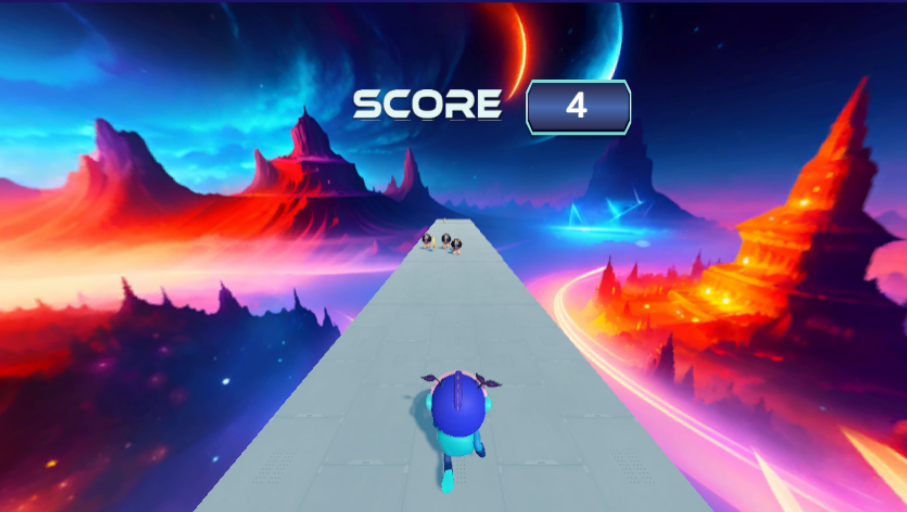
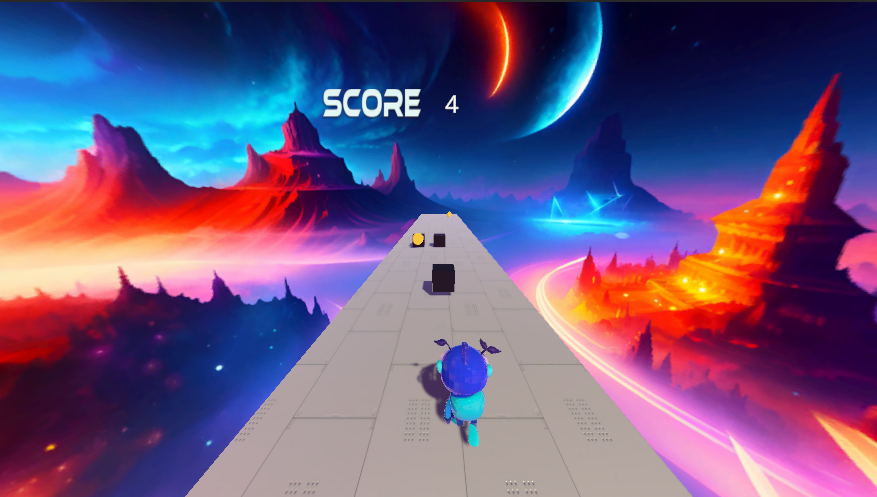
Act6ualizaciones de imagenes y contenido en 01 tour y 02 runner

diff --git a/docs/02-runner.md b/docs/02-runner.md
@@ -1,8 +1,10 @@
 # 2. Ejemplo1: Juego _Runner_
 
 !!! info "Objetivo de esta sección"
-    Entender cómo funciona el Runner: el jugador se mueve en X y **el mundo viene hacia él**.  
+    Entender cómo funciona el Runner: el jugador se mueve en el eje X y **el mundo viene hacia él**.  
     Explorarás los scripts, harás cambios en el **Inspector** y luego en el **código**.
+
+![Ejemplo Runner](img/ejemploRunner.png)
 
 !!! tip "🙋♀ Ayuda"
     🙋♀ No olvides preguntarle a los mentores de Campfire si necesitas ayuda.
@@ -27,13 +29,14 @@ El truco es: **premios y obstáculos se mueven hacia el jugador**.
     1. Abre la escena `Assets/Scenes/EscenasEjemplo/EjemploRunner.unity` (doble clic).
     2. En el panel **Hierarchy** (izquierda), localiza el objeto llamado **`Jugador`**.
     3. Haz clic en él para **seleccionarlo**.
-    4. Mira el panel **Inspector** (derecha) y anota qué componentes tiene.
+    4. Mira el panel **Inspector** (derecha) y analiza qué componentes tiene. <br>
+    Si, los viste en el paso anterior, pero ahora vamos a entender como los usamos para programar el juego.
 
-!!! note "¿Qué deberías ver en el Inspector?"
+!!! note "Repasemos ... ¿Qué deberías ver en el Inspector?"
     - **Transform** – posición, rotación, escala.
     - **Rigidbody** – física (gravedad, masa).
     - **Capsule Collider** – forma para detectar colisiones.
-    - **Player Controller (Script)** – el script que controla todo.
+    - **Player Controller (Script)** – el script que controla todo, este lo programa cada desarrollador, nosotros hicimos un ejemplo de como agregar un componente script que, en este caso, **hace que el jugador se mueva y ... algunas cosas más**.
     - **Animator** – controla las animaciones de correr/saltar.
 
 ---
@@ -55,7 +58,7 @@ Este script es el cerebro del jugador. Tiene tres partes importantes:
 
     !!! abstract "Mini teoría: ¿Qué es Start()?"
         `Start()` se ejecuta **una sola vez** cuando comienza el juego (cuando presionas Play).  
-        Se usa para preparar variables, poner valores iniciales, etc.
+        En palabras muy simples, lo usamos opara decirle al juego que valores o condiciones se tendrán al iniciar el juego... ej: preparar variables o poner valores iniciales.
 
 === "Update() – el bucle del juego"
 
@@ -73,20 +76,21 @@ Este script es el cerebro del jugador. Tiene tres partes importantes:
         `Update()` se ejecuta **una vez por frame** (60 veces por segundo aprox.).  
         Todo lo que quieras que ocurra continuamente va aquí: movimiento, lectura de teclas, etc.
 
-=== "Puntos y colisiones"
+=== "Detección de eventos (ej: score)"
 
     ```csharp
     float penalizacion = 5;   // puntos que se restan al tocar un obstáculo
     float aumento = 4;        // puntos que se suman al recoger un premio
 
+    //Esta fruncion permite detectar que algo "choca" (o "colisiona") con el objeto que tiene el script, en este caso el jugador
     private void OnTriggerEnter(Collider other)
     {
-        if (other.name.Contains("Obstaculo"))
+        if (other.name.Contains("Obstaculo")) //Si choca con un obstáculo...
         {
             score -= penalizacion;        // resta puntos
             Destroy(other.gameObject);    // elimina el obstáculo
         }
-        else if (other.name.Contains("Premio"))
+        else if (other.name.Contains("Premio")) // Si choca con un premio...
         {
             score += aumento;             // suma puntos
             Destroy(other.gameObject);    // elimina el premio
@@ -162,33 +166,47 @@ Este script es el cerebro del jugador. Tiene tres partes importantes:
 ```csharp
 public class GeneradorPremios : MonoBehaviour
 {
-    public GameObject cuboPrefab;           // el prefab del premio
+    public GameObject cuboPrefab;           // el objeto de juego del premio
     public Transform[] otrasPosiciones;     // posiciones donde puede aparecer
 
     private void Start()
     {
         // Llama a "GenerarPremios" cada 3 segundos (empieza inmediatamente)
         InvokeRepeating("GenerarPremios", 0f, 3f);
-        //                                ↑       ↑
-        //                          espera inicial  intervalo
+        //                                ↑    ↑
+        //                     espera inicial  intervalo
     }
 
     public void GenerarPremios()
     {
+        // se genera un npumero aleatorio entre 0 y el tamaño del arreglo de posiciones (en este caso: 3) 
         int randomIndex = Random.Range(0, otrasPosiciones.Length);
+        //La función Instantiate de unity permite "generar replicas" de un GameObject (estos 'replicables' son de color azul y los llamamos Prefabs, si quieres profundizar por qué consulta con un mentor)
         Instantiate(cuboPrefab, otrasPosiciones[randomIndex].position, Quaternion.identity);
     }
 }
 ```
+!!! example "Actividad — Nombre de la _variable_ que representa al premio"
+    1. ¿Notaste que el objeto de juego del premio está representado por una _variable_ llamada cuboPrefab? Eso es extraño, porque el premio es una moneda. Cuando creas _variables_ estas pueden llamarse como tu quieras, así que para mejorar el código te pedimos que cambies el nombre de esa _variable_ de "cuboPrefab" a "premio".
+    2. Guarda los cambios del script (`Ctrl+S`)
+    3. Nota que esto no cambia el comportamiento del juego, pero mejora el entendimiento del script.<br>
+    Nota: si no conoces el conceptio de _variable_, preguntale a los mentores, ellos te explicarán qué es, para qué sirve y cómo se usa.
+---
 
 !!! example "Actividad — Inspector"
     1. En **Hierarchy**, haz clic en el objeto `GeneradorPremios`.
     2. En **Inspector** verás el script con dos campos:
-        - **Cubo Prefab** – el prefab del premio asignado.
-        - **Otras Posiciones** – array de posiciones donde puede aparecer.
-    3. Presiona **Play** y observa cómo aparecen premios cada ~3 segundos.
+        - **Premio** – el objeto de juego del premio asignado ("Premio" debe ser el nombre si lo cambiaste en el paso anterior, de lo contrario dirá "Cubo Prefab"). 
+        - **Otras Posiciones** – Un conjunto de elementos (creado como un "arreglo" o _array_), en este caso, para guardar las posiciones donde puede aparecer el premio.
+    3. Expande el arreglo (⯈ Otras posiciones) y encuentra el objeto asociado al "Element 0" donde se generan los premios. Intenta acceder al objeto de juego de esa "posición".
+    4. Presiona **Play**, observa cómo aparecen premios cada ~3 segundos y qué ocurre con los premios generados en la posición que moviste.
 
 ---
+Así expandes el arreglo de ⯈ Otras posiciones
+![Desplegar arreglo de posiciones](img/listaDesplegable.png)
+Así puedes mover la posición
+![Mover la posicion generadora izquierda](img/MoverPosicionGeneradorIzq.png)
+
 
 ## 2.6 Obstáculos: aparecen al cruzar límites (triggers)
 
@@ -235,13 +253,15 @@ public class GenerarCubos : MonoBehaviour
 ```csharp
 public class MovimientoObjeto : MonoBehaviour
 {
-    public Rigidbody rb;
+    public Rigidbody rb; //se accede el componente de física (rigidbody)
     public float rapidez = 8f;   // ← velocidad a la que se mueve hacia el jugador
 
     void FixedUpdate()
     {
-        // Mueve el objeto en Z negativo (hacia el jugador)
+        // Mueve el objeto en el eje Z negativo (hacia el jugador)
         Vector3 velocidad = new Vector3(0, 0, -rapidez);
+
+        // Se accede a la velocidad y se actualiza con el vector modificado
         rb.velocity = velocidad;
     }
 
@@ -250,21 +270,29 @@ public class MovimientoObjeto : MonoBehaviour
         // Si llega al objeto "Destructor", se elimina solo
         if (other.name == "Destructor")
         {
+            //Esta función destruye un GameObject
             Destroy(gameObject);
         }
     }
 }
 ```
+!!! example "Actividad — Inspector"
+    1. Quita el signo "-" en el eje Z del vector de velocidad:   (0, 0, rapidez)
+    2. Guarda los cambios del script (`Ctrl+S`)
+    3. Ejecuta el juego y observa que ocurre con el movimiento de los objetos tras hacer ese cambio.
+        
+---
+
 
 !!! abstract "Mini teoría: FixedUpdate()"
     `FixedUpdate()` es como `Update()` pero para **física**.  
-    Se ejecuta a intervalos fijos (50 veces/segundo) para que el movimiento sea suave y preciso.
+    Se ejecuta a intervalos fijos (ej: 50 veces/segundo) para que el movimiento sea suave y preciso.
 
 !!! example "Actividad — Inspector"
     1. En el panel **Project**, busca la carpeta `Assets/Prefabs/` (o similar).
-    2. Selecciona el prefab `Premio` o `Obstaculo`.
+    2. Selecciona el prefab `Premio` u `Obstaculo`.
     3. En **Inspector** verás el script `MovimientoObjeto` con el campo **Rapidez**.
-    4. Anota el valor actual (debería ser `8`).
+    4. Observa el valor actual (debería ser `8`).
 
 ---
 

diff --git a/docs/01-tour-unity.md b/docs/01-tour-unity.md
@@ -39,7 +39,7 @@
 - Siempre tiene al menos un componente: **Transform**.
 
 !!! example "Actividad"
-    Un objeto de juego es, por ejemplo, cualquier objeto 3d, como un cubo, una esfera, un cilindro, un plano o una cápsula. En Unity estos son la base para contruir cualquier entorno de un juego.<br><br>
+    Un objeto de juego es, por ejemplo, cualquier objeto 3d, como un cubo, una esfera, un cilindro, un plano o una cápsula. En Unity estos son la base para contruir cualquier entorno de un juego. De hecho, los usamos para crear el piso, los obstáculos y premios del ejemplo Runner.<br><br>
     **Crea tu primer GameObject:** Ve a la escena del ejemplo Runner, abrela y crea un cubo. Este cubo lo "aplastarás" para formar una pared que ayude a nuestro personaje a no caerse al avismo. Para ello, busca el símbolo "+" en la ventana Hierarchy, luego ve a **3D Object > Cube**.<br>
     Para moverlo y "aplastarlo" (escalarlo), usa la "Toolbar" (observa las imágenes de ejemplo abajo y si necesitas ayuda, llama alos mentores) 
 
